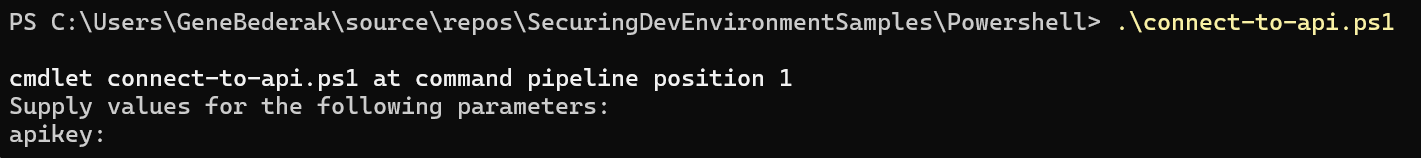
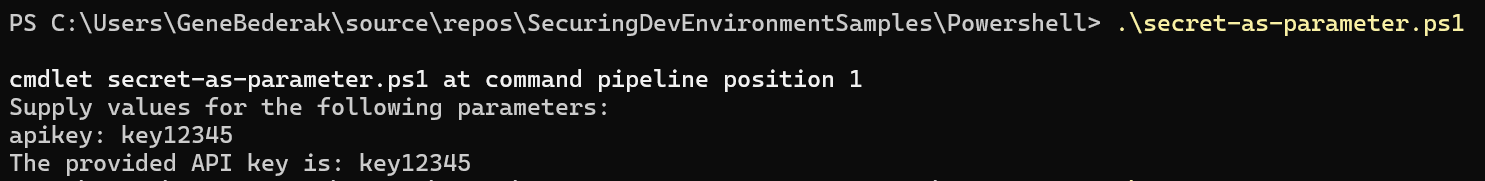
updates

Changed region(s): [[0.0, 0.3797, 0.5883, 0.962], [0.0, 0.0759, 0.9909, 0.2278]]

diff --git a/Powershell/readme.md b/Powershell/readme.md
@@ -1,34 +1,129 @@
-# Powerhsell secrets
 
 
+# Using secrets with Powerhsell scripts
 
-## store the key in the script
+Developers often need to use secrets in their powershell scripts.  Secrets are sensitive information that should be protected. 
 
-key is hard-coded into the script. usually how scripts are initially coded
+The samples below are written in powershell, but the concepts apply to any scripting language.
+
+Assume a script that uses a secret API Key to connect to an API.
+
+## Option (Non-Secure): Store the key right in the script
+
+The secret key is hard-coded into the script. This is often how scripts are initially coded in their early stages.   
 
 ```powershell
+### hardcoded-secret.ps1
 
 $apikey = "1234567890"
 # connect to some API using the key
 
 Write-Host "The provided API key is: apikey"  # For demonstration, we'll just print the APIKey value
 ```
+
+invoked with...
 ```
 .\connect-to-api.ps1 
 ```
 Not secure because...
 
-- saved unencrypted on local file system
-- saved inside of the script
-- can easyly be checked in to repo
+- the secret key, along with ps1 script file is saved unencrypted on local file system
+- file can easily be checked into source control
+
+______
+## Secret as Parameter
+
+in the example below, the apiKey is passed as a parameter to the script.  this is a more secure way to pass the secret to the script.  the secret is not stored in the script file.  the secret is passed as a parameter when the script is called.
+
+
+```powershell
+### script-as-parameter.ps1
+
+param (
+    [Parameter(Mandatory=$true)]
+    [string]$apikey
+)
+
+# Script logic goes here
+
+Write-Host "The provided API key is: apikey"  # For demonstration, we'll just print the APIKey value
+```
+
+however,there are various ways to pass the secret to the script.  Some methods more secure than others...
+
+
+### Secret Passed as a Parameter
+pass secret as parameter when calling script
+```
+.\secret-as-parameter.ps1 -apikey 1234567890
+```
+
+### Parameter omitted and powershell prompts
+
+If you omit secret from call, PowerShell's default behavior is to prompt the user for the missing parameters. 
+
+```
+.\secret-as-parameter.ps1
+```
+
+the result is...
+
+![Interactive Type Secret](interactive-type-secret.png)
+
+
+- Secret is still visible in the command history.
+- script need to be execute interatively
+- you still need to remember or store the key somewhere to type it in (so where are you storing it?)
+
+note: (run the command again and press the "up" arrow key to see the secret in the command history)
+
+
+### Parameter (Securestring) omitted and let powershell prompt
+
+```powershell
+### secret-as-secure-parameter-ps5.ps1
+
+param (
+    [Parameter(Mandatory=$true)]
+    [System.Security.SecureString]$apikey
+)
+
+$credential = New-Object System.Net.NetworkCredential("", $apikey)
+$plainTextKey = $credential.Password
+
+Write-Host "The provided API key is: $plainTextKey"  # For demonstration, we'll just print the APIKey value
+```
+As in the previous example, PowerShell's default behavior is to prompt the user for the missing parameters, however there the parameter is of type Securestring 
+
+```
+.\secret-as-secure-parameter-ps5.ps1
+```
+
+the result is...
+
+![Interactive Type Secret Masked](interactive-type-secret-masked.png)
+
+
+- works in powerhsell 5.1
+- script need to be execute interatively
+- you still need to remember or store the key somewhere to type it
+
+
+
 
 ______
 
-## read envronment variable 
+## Option: Store and Read Secret from Windows Credential Store
 
-pass secret as parameter when calling script
+
+
+_______
+## Option: Read Secret from Environment Variable at Invocation
+
+the secret is read from environment variable when needed
 
 ```powershell
+### script.ps1
 
 $apikey = System.Environment]::GetEnvironmentVariable('API_KEY', 'User')
 
@@ -42,51 +137,11 @@ Write-Host "The provided API key is: apikey"  # For demonstration, we'll just pr
 
 Attributes
 
-- key pulled from environment variable
-- tightly coupled to environment variable
 - no risk of being checked into repo
 
-______
+__
+## as
 
-## make the key passed as a parameter
-
-```powershell
-param (
-    [Parameter(Mandatory=$true)]
-    [string]$apikey
-)
-
-# Script logic goes here
-
-Write-Host "The provided API key is: apikey"  # For demonstration, we'll just print the APIKey value
-```
-
-this 
-
-```
-.\connect-to-api.ps1 
-```
-
-## non-secure way
-
-pass secret as parameter when calling script
-
-```
-.\connect-to-api.ps1 -apikey 1234567890
-```
-
-- saved in powershell history
-
-## non-secure way
-
-omit secret from call, powershell will prompt.  this works when executing the script manualy/interactively.  but you still need to remember or store the key somewhere to type it
-
-```
-.\connect-to-api.ps1 
-```
-the result is...
-
-![Interactive Type Secret](interactive-type-secret.png)
 
 
 ## environment variable
@@ -106,3 +161,6 @@ In this script, API_KEY is the name of the environment variable. This method kee
 ```
 
 
+
+
+references: https://www.itprotoday.com/powershell/how-manage-credentials-powershell

diff --git a/readme.md b/readme.md
@@ -1,6 +1,6 @@
 Options for securing
 
-- appsettings.Development.json
+- appsettings.json
 - Environment variables
 - microsoft secrets mananger (.net CORE apps)
 - Cred stash (naroncho)
